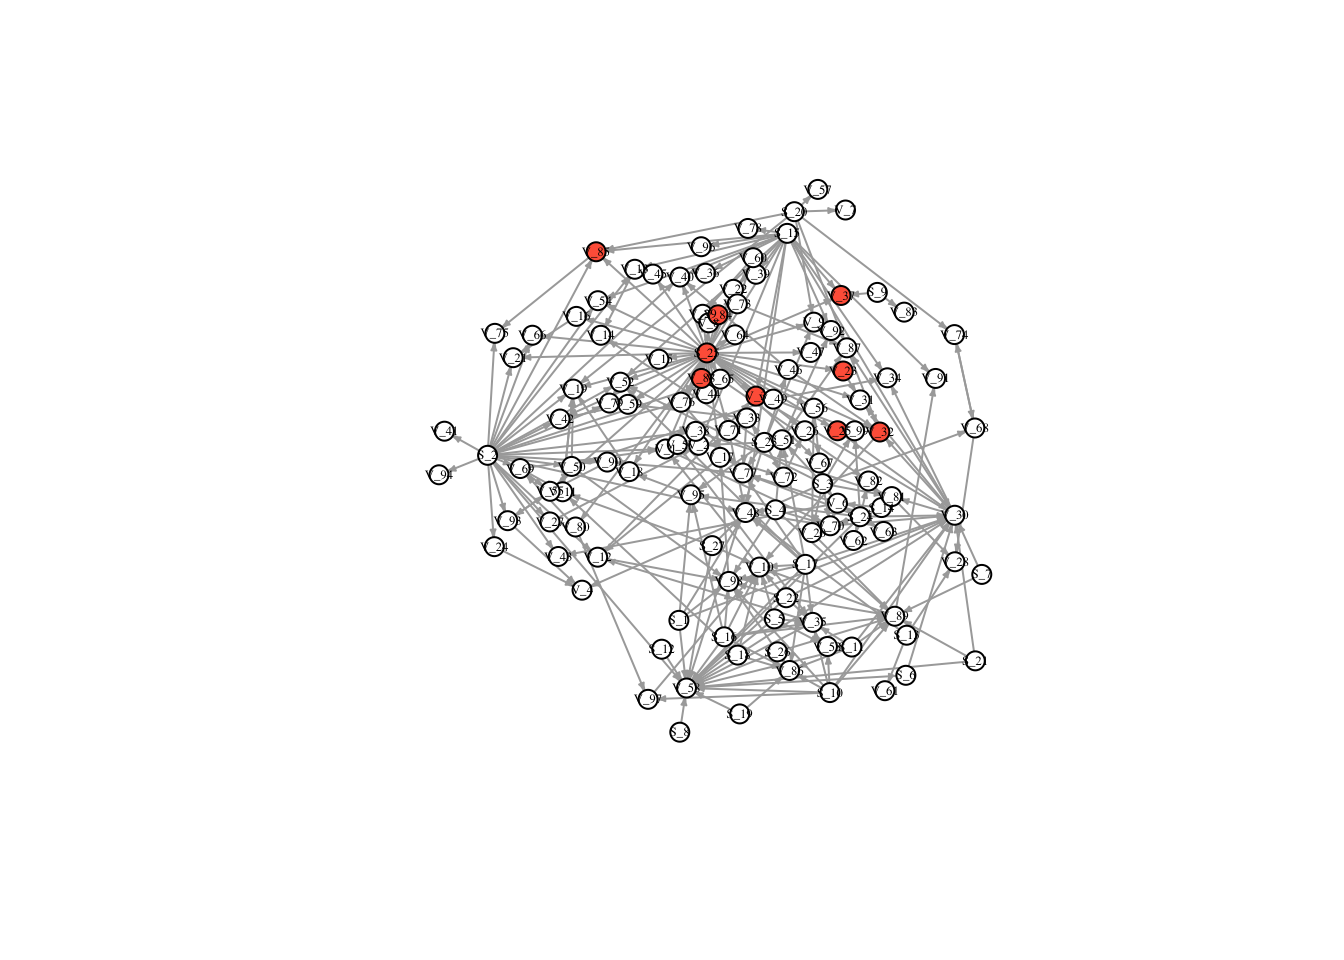
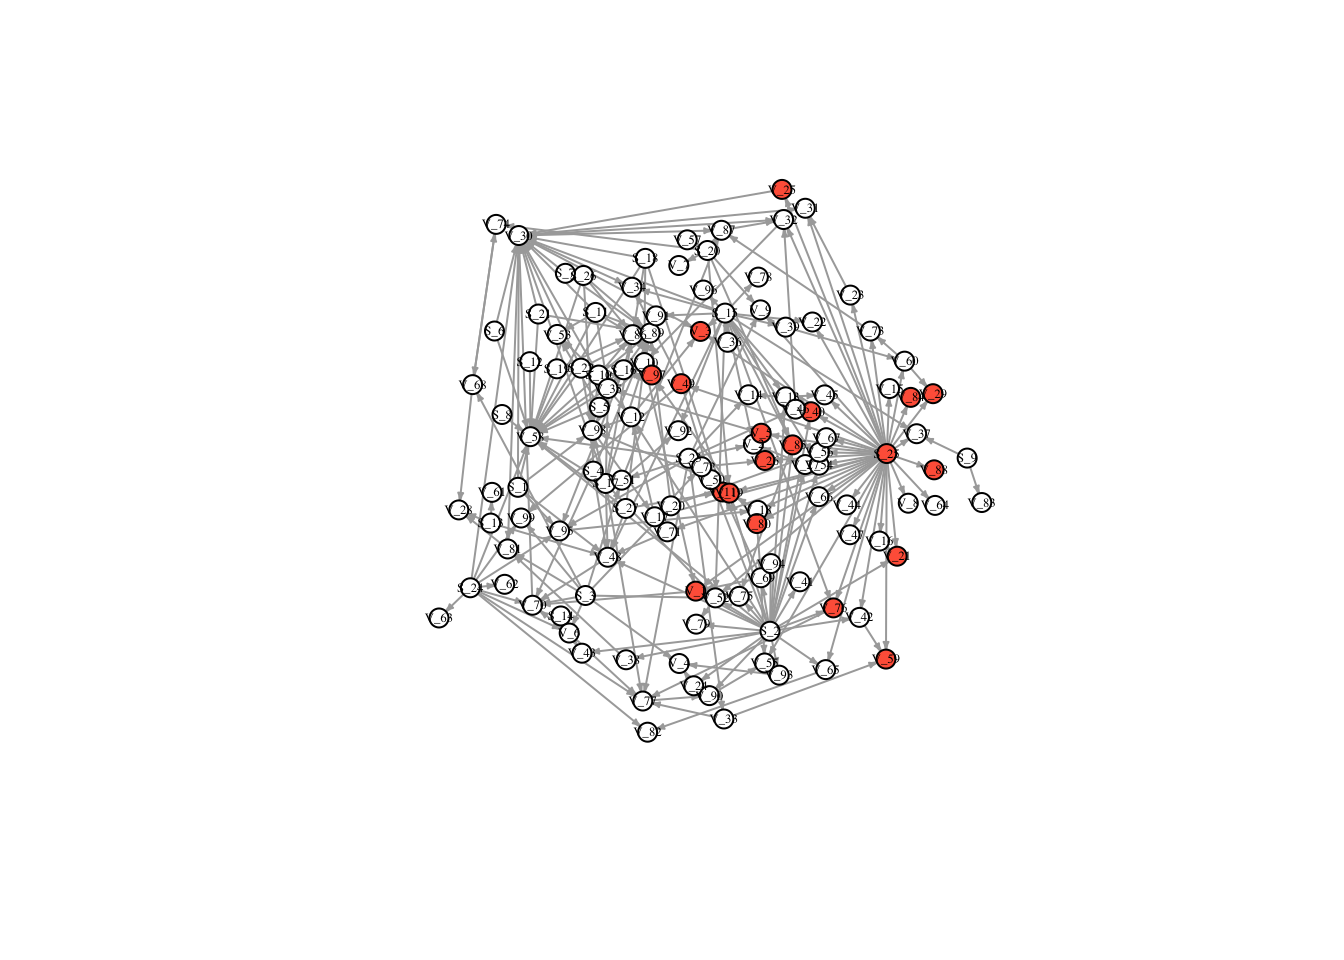
Slides

Changed region(s): [[0.3125, 0.1875, 0.75, 0.7812], [0.3125, 0.625, 0.3438, 0.6562]]

diff --git a/EpidemicNetworks.html b/EpidemicNetworks.html
@@ -514,16 +514,16 @@ Amat &lt;-<span class="st"> </span>Amat*<span class="dv">1</span> ## make your l
 <span class="kw">diag</span>(Amat) &lt;-<span class="st"> </span><span class="dv">1</span> <span class="co"># set the diagonals to 1 so that if a node is infected, it stays infected</span>
 Amat <span class="co"># our randomly generated matrix</span></code></pre></div>
 <pre><code>##       [,1] [,2] [,3] [,4] [,5] [,6] [,7] [,8] [,9] [,10]
-##  [1,]    1    1    0    0    0    0    0    0    1     0
-##  [2,]    0    1    0    0    0    1    0    1    1     1
-##  [3,]    0    0    1    0    0    0    0    1    1     0
-##  [4,]    1    1    1    1    1    0    1    0    1     0
-##  [5,]    1    0    0    1    1    0    0    0    1     0
-##  [6,]    0    1    0    0    0    1    1    0    0     0
-##  [7,]    0    1    1    1    1    0    1    0    0     0
-##  [8,]    0    0    1    0    0    1    0    1    0     0
-##  [9,]    0    1    1    0    0    0    1    1    1     1
-## [10,]    0    0    1    1    0    0    0    0    0     1</code></pre>
+##  [1,]    1    1    0    1    1    0    0    0    0     0
+##  [2,]    0    1    0    1    0    0    0    0    0     0
+##  [3,]    0    1    1    0    1    0    0    0    0     0
+##  [4,]    0    0    1    1    1    1    0    0    1     0
+##  [5,]    1    1    0    0    1    1    1    1    1     0
+##  [6,]    1    1    0    0    0    1    0    1    0     0
+##  [7,]    0    1    0    0    1    0    1    1    0     1
+##  [8,]    0    0    0    1    0    0    0    1    0     0
+##  [9,]    0    0    0    0    0    0    0    0    1     0
+## [10,]    1    0    0    1    1    0    0    0    0     1</code></pre>
 <p> </p>
 <p>Plot to see you network</p>
 <div class="sourceCode"><pre class="sourceCode r"><code class="sourceCode r">Mat3 &lt;-<span class="st"> </span><span class="kw">graph_from_adjacency_matrix</span>(Amat)
@@ -540,7 +540,7 @@ df</code></pre></div>
 <pre><code>##       Time1 Time2
 ##  [1,]     1     1
 ##  [2,]     0     1
-##  [3,]     0     1
+##  [3,]     0     0
 ##  [4,]     0     1
 ##  [5,]     0     1
 ##  [6,]     1     1
@@ -609,9 +609,9 @@ fix.layout &lt;-<span class="st"> </span><span class="kw">layout_with_dh</span>(
 FullNet2 &lt;-<span class="st"> </span><span class="kw">as.matrix</span>(FullNet)
 FullNet3 &lt;-<span class="st"> </span><span class="kw">graph_from_adjacency_matrix</span>(FullNet2)
 FullNet3</code></pre></div>
-<pre><code>## IGRAPH f592e1c DN-- 126 283 -- 
+<pre><code>## IGRAPH afe4ef3 DN-- 126 283 -- 
 ## + attr: name (v/c)
-## + edges from f592e1c (vertex names):
+## + edges from afe4ef3 (vertex names):
 ##  [1] S_1 -&gt;V_30 S_1 -&gt;V_48 S_1 -&gt;V_58 S_1 -&gt;V_95 S_1 -&gt;V_98 S_10-&gt;V_30
 ##  [7] S_10-&gt;V_35 S_10-&gt;V_53 S_10-&gt;V_58 S_10-&gt;V_86 S_10-&gt;V_89 S_10-&gt;V_97
 ## [13] S_10-&gt;V_98 S_11-&gt;V_30 S_11-&gt;V_35 S_11-&gt;V_53 S_11-&gt;V_58 S_11-&gt;V_86
@@ -815,11 +815,11 @@ timestatus</code></pre></div>
 <span class="kw">plot</span>(FullNet3, <span class="dt">edge.arrow.size=</span>.<span class="dv">2</span>, <span class="dt">vertex.size=</span><span class="dv">7</span>, <span class="dt">vertex.label.cex=</span>.<span class="dv">4</span>, <span class="dt">vertex.label.color=</span><span class="st">&#39;black&#39;</span>, <span class="dt">layout =</span> l)</code></pre></div>
 <p><img src="EpidemicNetworks_files/figure-html/unnamed-chunk-22-8.png" width="672" /></p>
 <div class="sourceCode"><pre class="sourceCode r"><code class="sourceCode r"><span class="kw">V</span>(FullNet3)$color &lt;-<span class="st"> </span><span class="kw">ifelse</span>(timestatus$v_9 ==<span class="st"> </span><span class="dv">1</span>, <span class="st">&quot;tomato&quot;</span>, <span class="st">&quot;white&quot;</span>)
+<span class="kw">plot</span>(FullNet3, <span class="dt">edge.arrow.size=</span>.<span class="dv">2</span>, <span class="dt">vertex.size=</span><span class="dv">7</span>, <span class="dt">vertex.label.cex=</span>.<span class="dv">4</span>, <span class="dt">vertex.label.color=</span><span class="st">&#39;black&#39;</span>, <span class="dt">layout =</span> l)
+
+<span class="kw">V</span>(FullNet3)$color &lt;-<span class="st"> </span><span class="kw">ifelse</span>(timestatus$v_10 ==<span class="st"> </span><span class="dv">1</span>, <span class="st">&quot;tomato&quot;</span>, <span class="st">&quot;white&quot;</span>)
 <span class="kw">plot</span>(FullNet3, <span class="dt">edge.arrow.size=</span>.<span class="dv">2</span>, <span class="dt">vertex.size=</span><span class="dv">7</span>, <span class="dt">vertex.label.cex=</span>.<span class="dv">4</span>, <span class="dt">vertex.label.color=</span><span class="st">&#39;black&#39;</span>, <span class="dt">layout =</span> l)</code></pre></div>
 <p><img src="EpidemicNetworks_files/figure-html/unnamed-chunk-22-9.png" width="672" /></p>
-<div class="sourceCode"><pre class="sourceCode r"><code class="sourceCode r"><span class="kw">V</span>(FullNet3)$color &lt;-<span class="st"> </span><span class="kw">ifelse</span>(timestatus$v_10 ==<span class="st"> </span><span class="dv">1</span>, <span class="st">&quot;tomato&quot;</span>, <span class="st">&quot;white&quot;</span>)
-<span class="kw">plot</span>(FullNet3, <span class="dt">edge.arrow.size=</span>.<span class="dv">2</span>, <span class="dt">vertex.size=</span><span class="dv">7</span>, <span class="dt">vertex.label.cex=</span>.<span class="dv">4</span>, <span class="dt">vertex.label.color=</span><span class="st">&#39;black&#39;</span>, <span class="dt">layout =</span> l)</code></pre></div>
-<p><img src="EpidemicNetworks_files/figure-html/unnamed-chunk-22-10.png" width="672" /></p>
 <p>Plot the number of nodes infected over time with Node 1 as starting node</p>
 <div class="sourceCode"><pre class="sourceCode r"><code class="sourceCode r">timestatus1 &lt;-<span class="st"> </span>timestatus %&gt;%
 <span class="st">  </span><span class="kw">gather</span>(<span class="st">&#39;vec&#39;</span>, <span class="st">&#39;v_2&#39;</span>, <span class="st">&#39;v_3&#39;</span>, <span class="st">&#39;v_4&#39;</span>, <span class="st">&#39;v_5&#39;</span>, <span class="st">&#39;v_6&#39;</span>, <span class="st">&#39;v_7&#39;</span>, <span class="st">&#39;v_8&#39;</span>, <span class="st">&#39;v_9&#39;</span>, <span class="st">&#39;v_10&#39;</span>, <span class="dt">key =</span> <span class="st">&quot;Timestep&quot;</span>, <span class="dt">value =</span> <span class="st">&quot;Status&quot;</span> )
